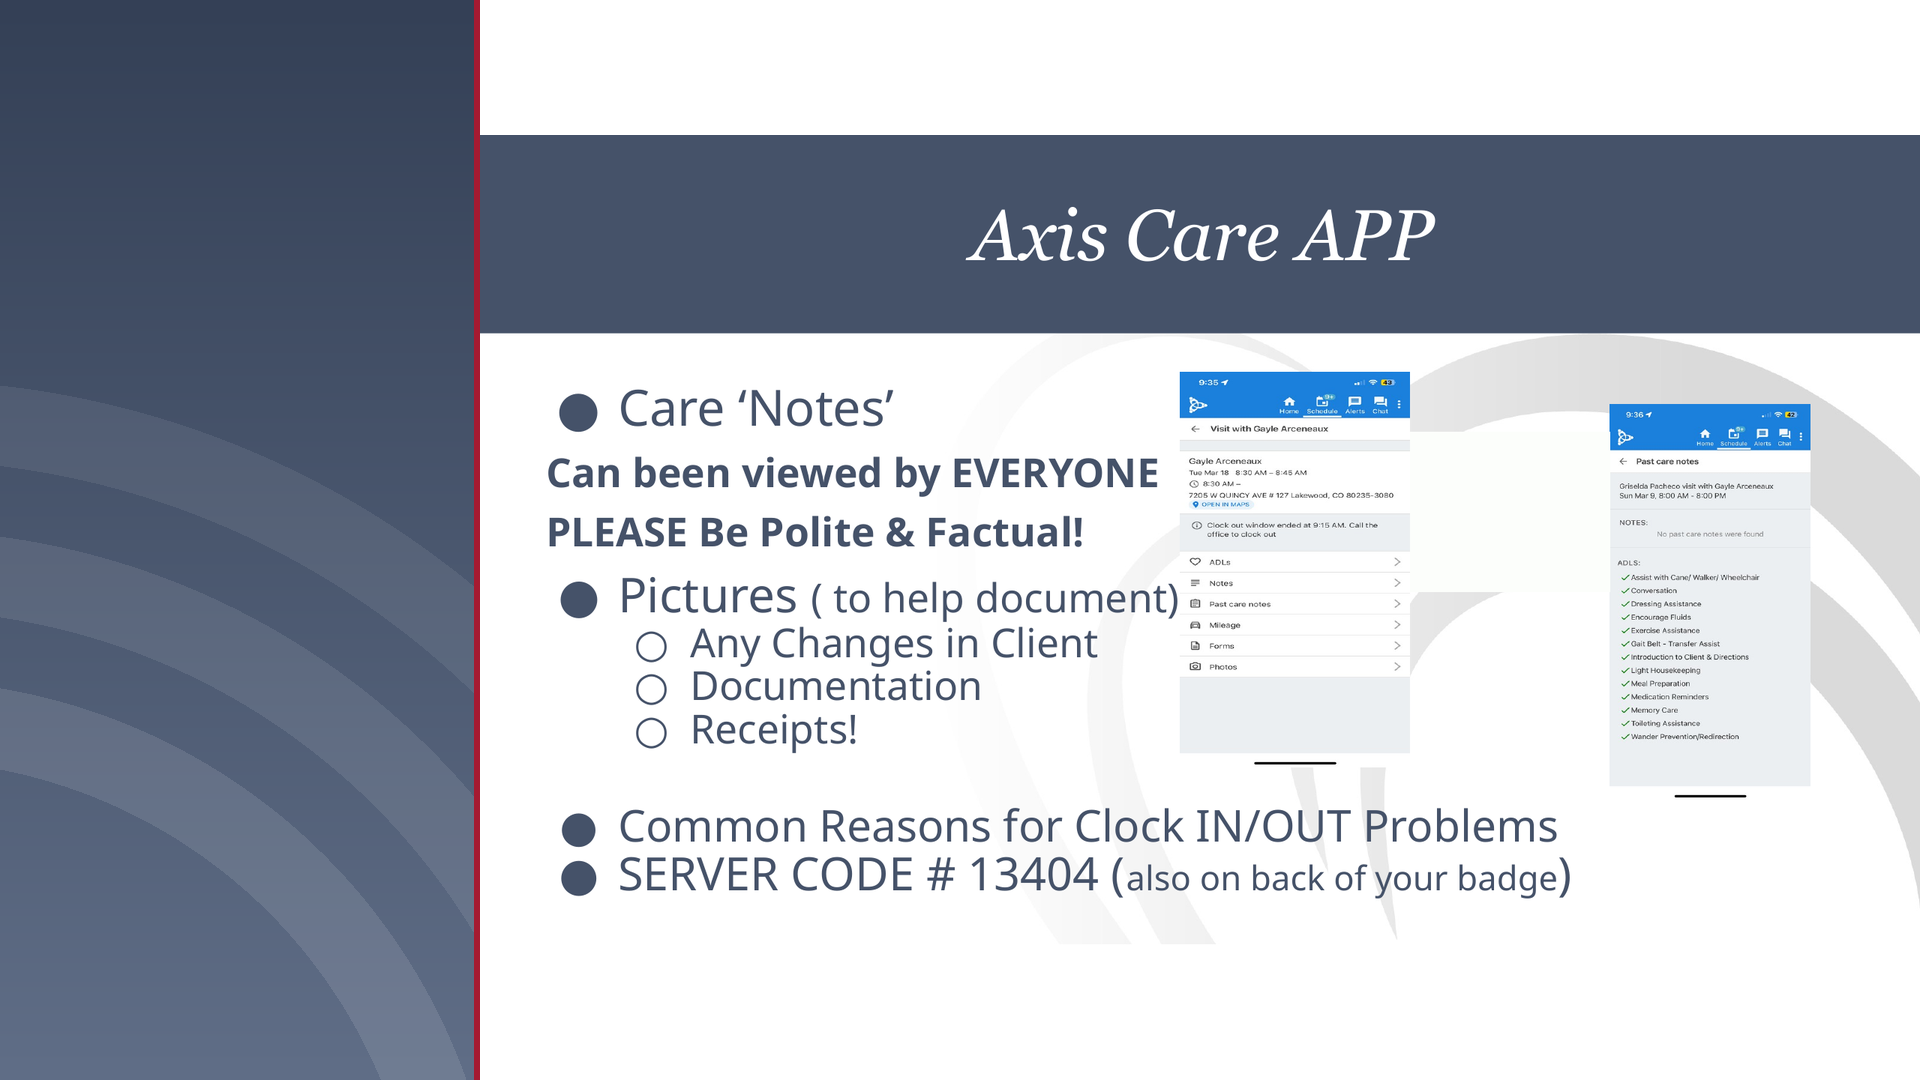
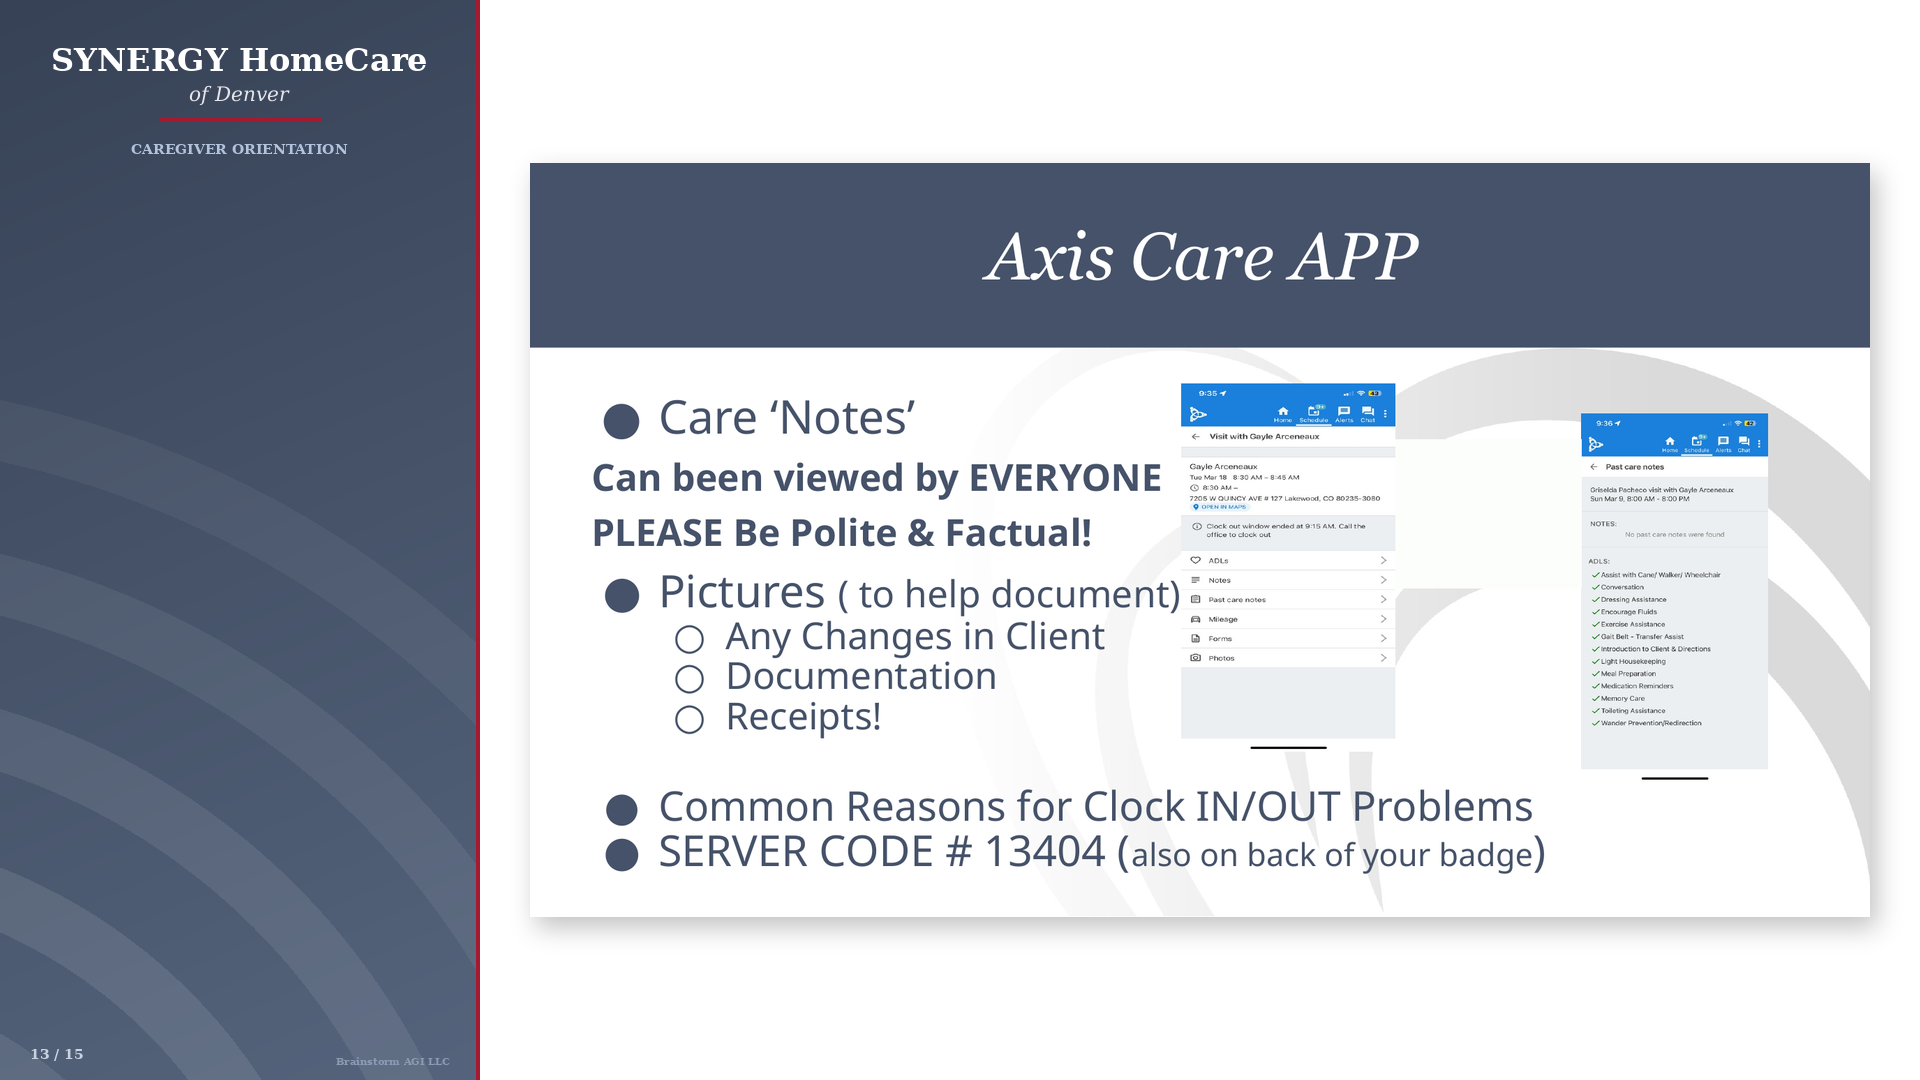
Stellar v2 composites with brand-accurate design, corrected script-to-slide order, memory care as closer

diff --git a/README.md b/README.md
@@ -1,5 +1,42 @@
 # SYNERGY Denver Orientation Video Assets
 
-Slide backgrounds for the 15-scene caregiver orientation video.
-Hank can fetch any slide via:
-  curl -L https://raw.githubusercontent.com/HCJefe/synergy-denver-orientation/main/slides/slide-NN.png
+Production assets for the 15-scene caregiver orientation video.
+
+## Layout
+
+- Canvas: 1920x1080
+- Left 480px: SYNERGY navy zone with branded wordmark for presenter (Esmeralda in SYNERGY red polo)
+- Right 1440px: original SYNERGY slide content, scaled with margin, soft drop shadow
+- 4px red separator bar between zones
+- "SYNERGY HomeCare / of Denver / CAREGIVER ORIENTATION" header in avatar zone
+- Scene counter "N / 15" at bottom-left
+- "Brainstorm AGI LLC" footer
+
+## Files
+
+- composites/scene-NN.png - pre-built 1920x1080 backgrounds for each scene, including navy zone, slide, branding, and shadow. Just drop presenter in.
+- scripts.txt - scene-by-scene spoken scripts
+- scripts.json - same data in JSON format
+- final/ - final rendered MP4 goes here after production
+
+## Public fetch URLs
+
+https://raw.githubusercontent.com/HCJefe/synergy-denver-orientation/main/composites/scene-01.png through scene-15.png
+
+## Scene Order (matches deck PPTX order)
+
+1. Title (SYNERGY Orientation)
+2. Welcome (office staff intro)
+3. Job Description (we've got your back)
+4. Job Description cont (ground rules)
+5. Dress Code
+6. Payroll Things
+7. Expectations (24 hour notice etc)
+8. Scheduling
+9. Workman's Comp / Benefits
+10. Transportation / Errands
+11. Other Opportunities
+12. Questions / Bridge (brief reset)
+13. Axis Care App
+14. AXIS CARE Clocking OUT
+15. Key Points in Memory Care (closing)
